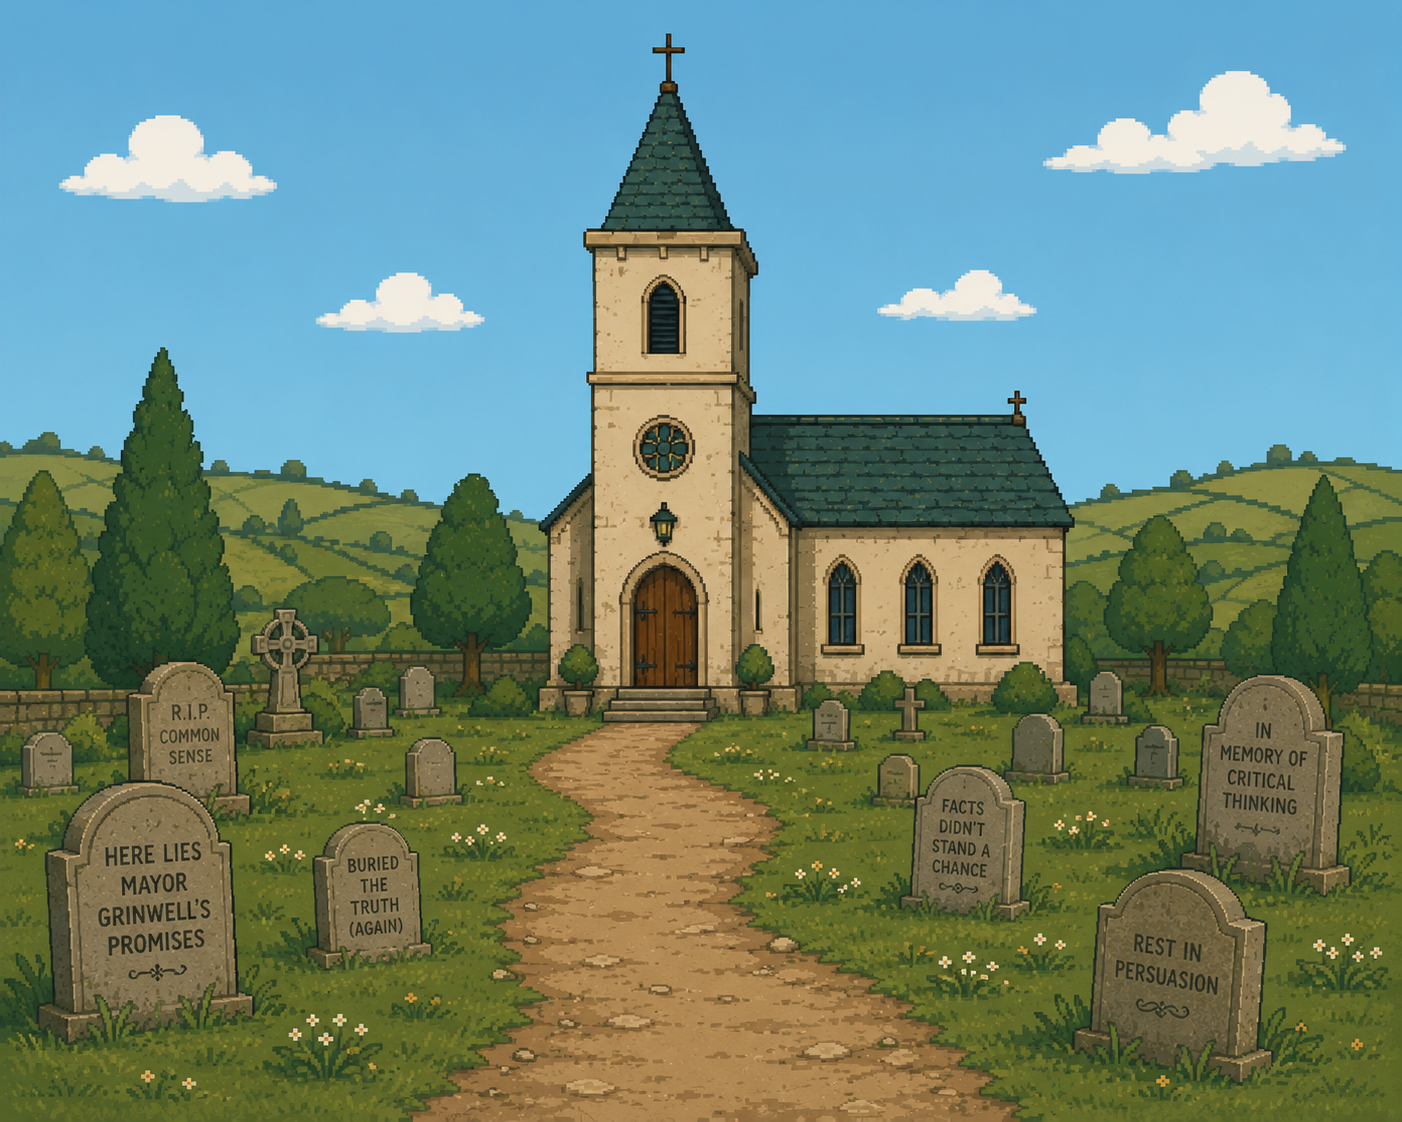
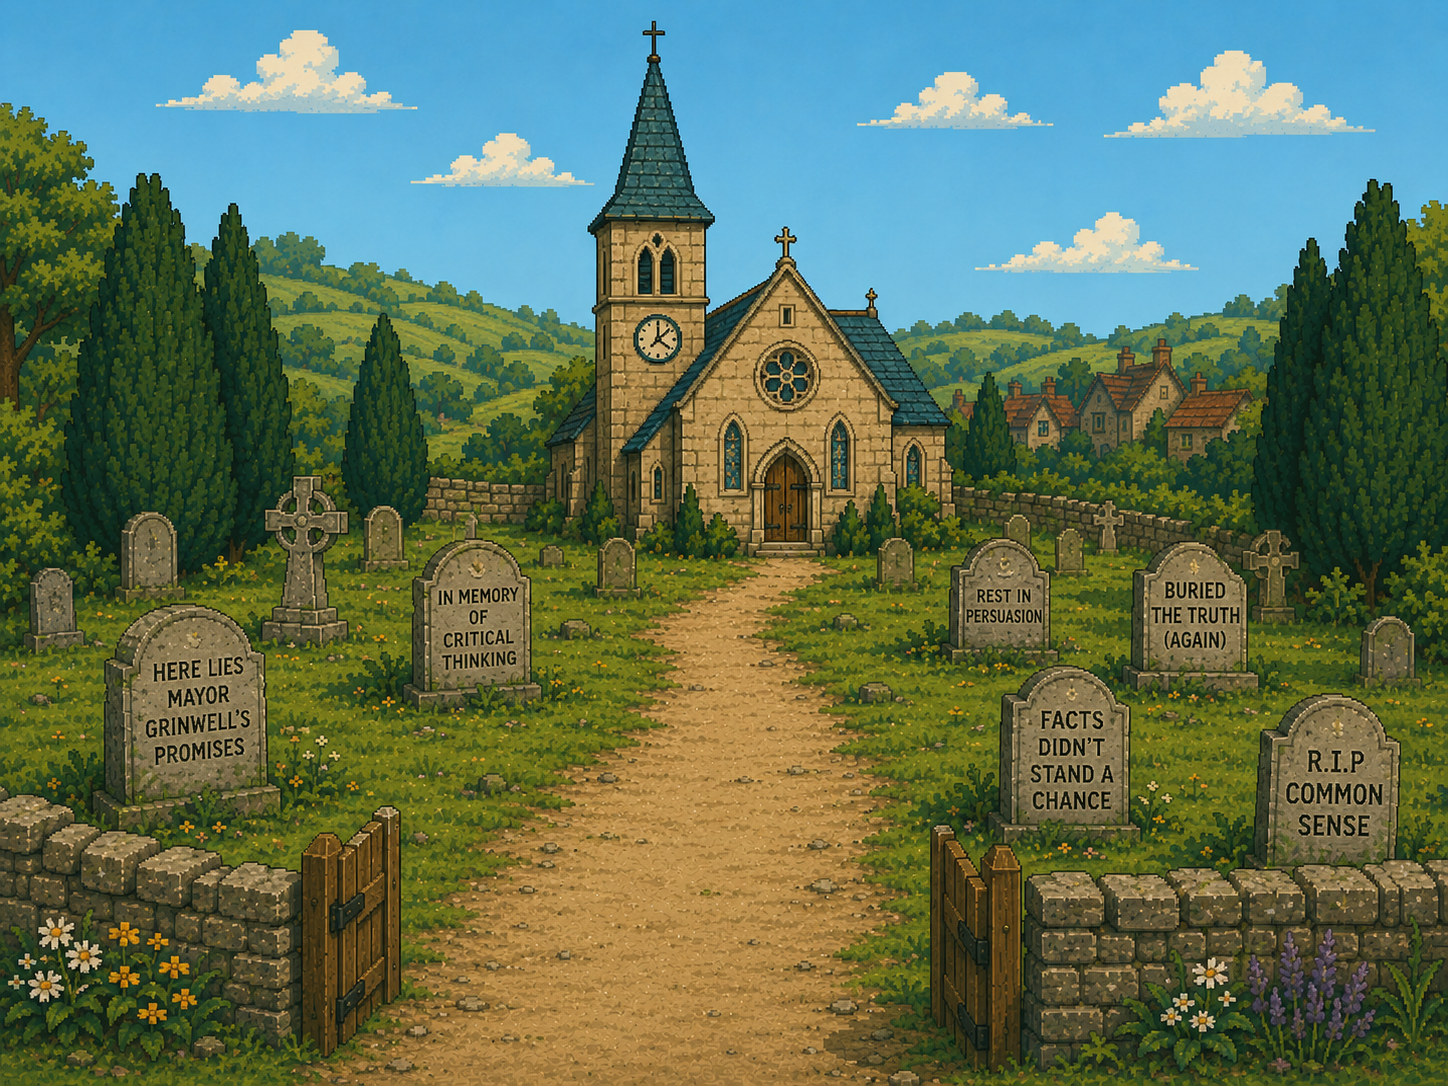
Little Fibbing: pixel churchyard + vicar, fix vicar scaling
- Pixel-art churchyard background (keeps all satirical epitaphs: Mayor
  Grinwell's promises, critical thinking, common sense, etc.).
- Pixel Reverend Pemble bust matching the player/Nan style.
- Scale the vicar bust down in the interaction scene (was tuned to old art,
  rendered as a giant face).

diff --git a/public/games/little-fibbing/index.html b/public/games/little-fibbing/index.html
@@ -15,7 +15,7 @@
       content="Little Fibbing — The Pothole Incident. A small storybook game about a missing tortoise and the stories a village prefers to believe."
     />
     <title>Little Fibbing — The Pothole Incident</title>
-    <script type="module" crossorigin src="/games/little-fibbing/assets/index-DAmt8S71.js"></script>
+    <script type="module" crossorigin src="/games/little-fibbing/assets/index-P6irLynr.js"></script>
     <link rel="stylesheet" crossorigin href="/games/little-fibbing/assets/index-PtUUXDPX.css">
   </head>
   <body>